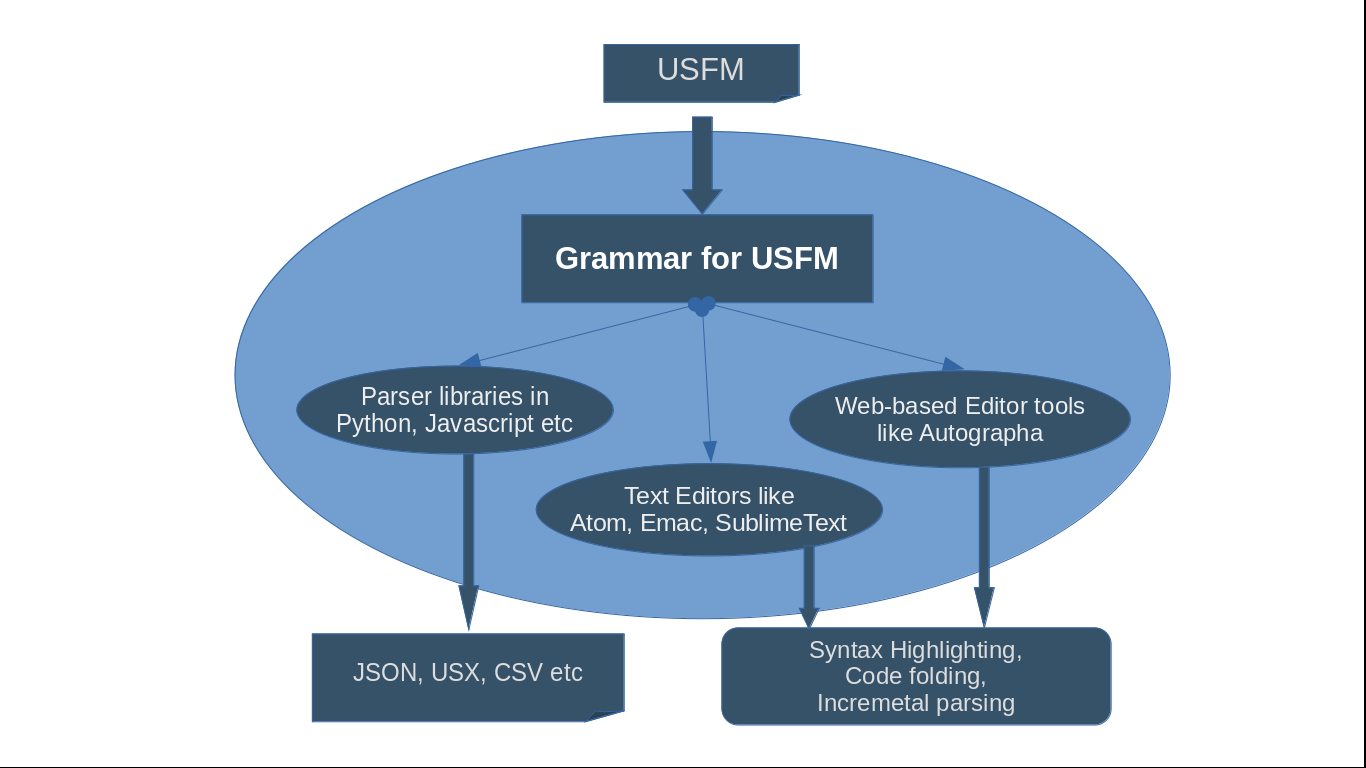
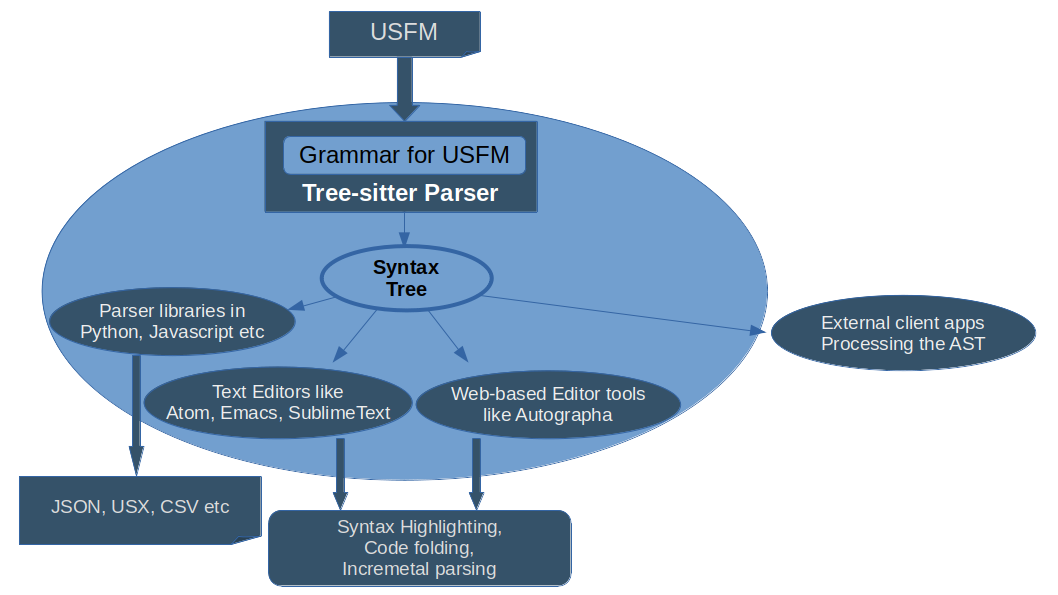
Dev (#151)
* update architecture.md

* implement granular rules for attributes

diff --git a/tree-sitter-usfm/grammar.js b/tree-sitter-usfm/grammar.js
@@ -237,6 +237,7 @@ module.exports = grammar({
       $.crossref,
       $.milestone,
       $.zNameSpaceRegular,
+      $._comments,
     ),
 
     p: $ => prec.right(0, seq("\\p", $._spaceOrLine, repeat($._paragraphContent))),
@@ -389,7 +390,8 @@ module.exports = grammar({
     xo: $ => seq("\\xo ", $.noteText, optional("\\xo*")),
     xk: $ => seq("\\xk ", $.noteText, optional("\\xk*")),
     xq: $ => seq("\\xq ", $.noteText, optional("\\xq*")),
-    xt: $ => seq("\\xt ", $.noteText,optional($.attributes),  optional("\\xt*")),
+    xt: $ => seq("\\xt ", $.noteText,optional(choice($.defaultAttribute, $._attributesInCrossref)), 
+      optional("\\xt*")),
     xta: $ => seq("\\xta ", $.noteText, optional("\\xta*")),
     xop: $ => seq("\\xop ", $.noteText, optional("\\xop*")),
     xot: $ => seq("\\xot ", $.noteText, optional("\\xot*")),
@@ -409,7 +411,7 @@ module.exports = grammar({
     rq: $ => seq("\\rq ", $.noteText, "\\rq*"),
 
     //Character and word level markers
-    attributes: $ => seq("|", $.text), //to be implemented properly
+    // attributes: $ => seq("|", $.text), //to be implemented properly
     _innerText: $ => prec.right(0, repeat1(choice(
       $.text,
       $._nestedCharacterMarker,
@@ -440,8 +442,8 @@ module.exports = grammar({
 
     ndx: $ => seq("\\ndx", $._innerText, "\\ndx*"),
     pro: $ => seq("\\pro", $._innerText, "\\pro*"),
-    rb: $ => seq("\\rb", $._innerText, optional($.attributes), "\\rb*"),
-    w: $ => seq("\\w", $._innerText, optional($.attributes), "\\w*"),
+    rb: $ => seq("\\rb", $._innerText, optional(choice($.defaultAttribute, $._rbAttributes)), "\\rb*"),
+    w: $ => seq("\\w", $._innerText, optional(choice($.defaultAttribute, $._wAttributes)), "\\w*"),
     wg: $ => seq("\\wg", $._innerText, "\\wg*"),
     wh: $ => seq("\\wh", $._innerText, "\\wh*"),
     wa: $ => seq("\\wa", $._innerText, "\\wa*"),
@@ -505,8 +507,10 @@ module.exports = grammar({
 
     ndxNested: $ => seq("\\+ndx", $._innerText, "\\+ndx*"),
     proNested: $ => seq("\\+pro", $._innerText, "\\+pro*"),
-    rbNested: $ => seq("\\+rb", $._innerText, optional($.attributes), "\\+rb*"),
-    wNested: $ => seq("\\+w", $._innerText, optional($.attributes), "\\+w*"),
+    rbNested: $ => seq("\\+rb", $._innerText, optional(
+      choice($.defaultAttribute, $._rbAttributes)), "\\+rb*"),
+    wNested: $ => seq("\\+w", $._innerText, optional(
+      choice($.defaultAttribute, $._wAttributes)), "\\+w*"),
     wgNested: $ => seq("\\+wg", $._innerText, "\\+wg*"),
     whNested: $ => seq("\\+wh", $._innerText, "\\+wh*"),
     waNested: $ => seq("\\+wa", $._innerText, "\\+wa*"),
@@ -543,9 +547,10 @@ module.exports = grammar({
       $.jmpNested,
     ),
 
-    fig: $ => seq("\\fig", optional($.text), optional($.attributes), "\\fig*"),
-    jmp: $ => seq("\\jmp", field("label",optional($.text)), optional($.attributes), "\\jmp*"),
-    jmpNested: $ => seq("\\+jmp", field("label",optional($.text)), optional($.attributes), "\\+jmp*"),
+    fig: $ => seq("\\fig", optional($.text), optional(
+      choice($.defaultAttribute, $._figAttributes)), "\\fig*"),
+    jmp: $ => seq("\\jmp", field("label",optional($.text)), optional($._jmpAttribute), "\\jmp*"),
+    jmpNested: $ => seq("\\+jmp", field("label",optional($.text)), optional($._jmpAttribute), "\\+jmp*"),
 
     pb: $ => seq("\\pb", $._spaceOrLine),
 
@@ -554,12 +559,12 @@ module.exports = grammar({
       letters of digits.*/
 
     _milestoneStandaloneMarker: $ => seq("\\", prec.right(1,token.immediate(/[\w\d_]+/)),
-      optional($.attributes), "\\*" ),
+      optional($._milestoneAttributes), "\\*" ),
 
     _milestoneStart: $ => seq(/\\[\w\d_]+-s/,
-      optional($.attributes), "\\*" ),
+      optional($._milestoneAttributes), "\\*" ),
     _milestoneEnd: $ => seq(/\\[\w\d_]+-e/,
-      optional($.attributes), "\\*" ),
+      optional($._milestoneAttributes), "\\*" ),
 
     /* dont tie up the start and end in the grammar as of now.
     But Do it via querying on the parse tree if required.
@@ -572,7 +577,7 @@ module.exports = grammar({
 
     zNameSpaceRegular: $ => prec.right(0, seq(/\\z[\w\d_-]+/, optional($.text))),
     zNameSpaceClosed: $ => prec.right(0, seq(/\\z[\w\d_-]+/, optional($.text),
-      optional($.attributes), /\\z[\w\d_-]+\*/)),
+      optional($._milestoneAttributes), /\\z[\w\d_-]+\*/)), // This may not support one name space within another
     
     esb: $ => seq("\\esb",  repeat($._esbContents), "\\esbe"),
     _esbContents: $ => choice( 
@@ -590,8 +595,52 @@ module.exports = grammar({
       $.ip,
       ),
 
-    cat: $ => seq("\\cat", /[\w\d\s]+/, "\\cat*")
+    cat: $ => seq("\\cat", /[\w\d\s]+/, "\\cat*"),
       
+    /* *****Attributes******** */
+
+    /* For user defined attributes starting with x */
+
+    customAttribute: $ => seq($.customAttributeName, "=", "\"",optional($.attributeValue),"\""),
+    customAttributeName: $ => seq("x-", /[\w\d_]+/),
+    attributeValue: $ =>  /[^\\\|"=]+/, //same rule as $.text, with quote and '=' added extra
+
+    /* The default attribute is valid for any marker which normally provide attributes. 
+      It would be extracted as default attribute without mentioning the corresponding attribute name */
+
+    defaultAttribute: $ => seq("|", $.attributeValue), 
+
+    /* the special set of attributes valid for each of the normally 
+      attributed elements are defined here*/
+
+    // _wAttributes: $ => seq("|", $.lemmaAttribute),
+    _wAttributes: $ => prec.right(0, seq("|", repeat1(choice($.lemmaAttribute, $.strongAttribute,
+      $.scrlocAttribute, $.linkAttribute, $.customAttribute)))),
+    _rbAttributes: $ => prec.right(0, seq("|", repeat1(choice($.glossAttribute, $.customAttribute,
+      $.linkAttribute)))),
+    _figAttributes: $ => prec.right(0, seq("|", repeat1(choice($.altAttribute, $.srcAttribute, $.sizeAttribute, $.locAttribute, $.copyAttribute, 
+      $.refAttribute, $.customAttribute, $.linkAttribute, $.defaultAttribute)))),
+    lemmaAttribute: $ => seq("lemma", "=", '"', $.attributeValue, '"'),
+    strongAttribute: $ => seq("strong", "=", '"', optional($.attributeValue), '"'), 
+    scrlocAttribute: $ => seq("srcloc", "=", '"', optional($.attributeValue), '"'),
+    glossAttribute: $ => seq("gloss", "=", '"', optional($.attributeValue), '"'),
+    _jmpAttribute: $ => seq("|", $.linkAttribute),
+    linkAttribute: $ => seq($._linkAttributeName, "=", '"', optional($.attributeValue), '"'),
+    _linkAttributeName: $ => choice("link-href", "link-title", "link-id", $._linkAttributeUserDefinedName),
+    _linkAttributeUserDefinedName: $ => seq("link-", /[\w\d_]+/),
+    altAttribute: $ => seq("alt", "=", '"', optional($.attributeValue), '"'),
+    srcAttribute: $ => seq("src", "=", '"', optional($.attributeValue), '"'),
+    sizeAttribute: $ => seq("size", "=", '"', optional($.attributeValue), '"'),
+    locAttribute: $ => seq("loc", "=", '"', optional($.attributeValue), '"'),
+    copyAttribute: $ => seq("copy", "=", '"', optional($.attributeValue), '"'),
+    refAttribute: $ => seq("ref", "=", '"', optional($.attributeValue), '"'),
+    _milestoneAttributes: $ => prec.right(0, seq("|", repeat1(
+      choice($.msAttribute, $.customAttribute, $.linkAttribute)))),
+    msAttribute: $ => seq($.milestoneAttributeName, "=", '"', optional($.attributeValue), '"'),
+    milestoneAttributeName: $ => choice("sid", "eid", "who"),
+
+    _attributesInCrossref: $ => prec.right(0,seq("|", repeat1(choice(
+      $.linkAttribute, $.customAttribute, $.defaultAttribute))))
   }
 
 });

diff --git a/docs/architecture.md b/docs/architecture.md
@@ -15,6 +15,8 @@ Implemented Using
 * Python
 * Javascript
 
+[Tree-sitter](https://tree-sitter.github.io/tree-sitter/) is a parser generator. We model the USFM language in the Context-Free-Grammar, as required by it, and it can build parsers that can create syntax tree for a source USFM file. 
+
 ![usfm-grammar-arch](./images/usfm-grammar-components.png)
 *Container diagram*
 
@@ -29,8 +31,11 @@ This module is published on npm indivdually as `tree-sitter-usfm`.
 
 **grammar.js**: The file where we model the USFM language. Here we define the tokens, synatx rules and the structure of the output syntax-tree(AST).
 
-**test/corpus**: This contain the test case. The test files start with `test` and should contain input USFM and expected AST. 
+**test/corpus**: This contain the test cases. The test files start with `test` and should contain input USFM and expected AST. 
 
+**queries/**: The queries on syntax tree and mapping of components to themes, for syntax highlighting.
+
+**package.json**: The details of this module, like, its dependancies, version, etc
 
 Useful commands while working in this module:
 ```
